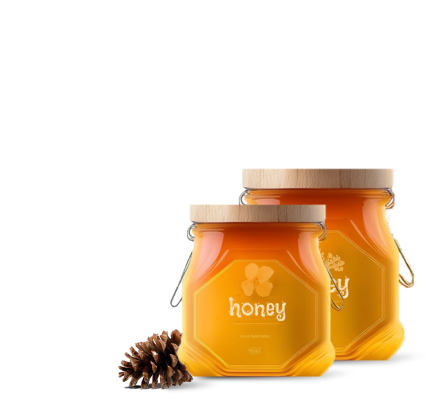
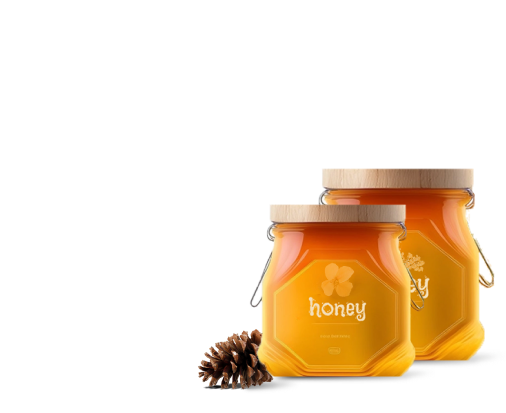
add Features section

Changed region(s): [[0.2746, 0.4068, 0.9765, 0.9588]]

diff --git a/pages/index.js b/pages/index.js
@@ -10,22 +10,22 @@ const Home = () => {
 				id="hero"
 				className="bg-auto bg-no-repeat bg-center  bg-[url('/hero-bg--phone.png')] md:bg-[url('/hero-bg--md.png')] lg:bg-[url('/hero-bg--tablet.png')] xl:bg-[url('/hero-bg.png')]  h-full"
 			>
-				<div className="container flex items-center px-8 mx-auto pt-10  space-y-0 md:space-y-0 md:flex-row  relative overflow-visible h-[54rem]">
-					<div className="flex flex-col space-y-8  w-8/12 md:w-5/12 lg:w-6/12 absolute top-24">
+				<div className="container flex items-center px-8 mx-auto pt-10  space-y-0 md:space-y-0 md:flex-row  relative overflow-visible h-[56rem]">
+					<div className="flex flex-col space-y-8 pl-2 md:pl-16  w-10/12 md:w-5/12 lg:w-6/12 absolute top-24">
 						<h1 className=" text-5xl md:text-6xl lg:text-7xl font-bold text-left text-brownSecondary">
 							Honey Pure
 						</h1>
-						<p className="max-w-sm text-left text-1xl lg:text-2xl text-graySecondary">
+						<p className="max-w-sm text-left text-xl lg:text-xl text-graySecondary">
 							Experience the Sweetness of Pure, Raw Honey
 						</p>
-						<p className="max-w-sm text-left  text-1xl lg:text-2xl  text-graySecondary md:w-7/12">
+						<p className="text-left  text-xl lg:text-xl  text-graySecondary lg:w-7/12">
 							Our honey is carefully sourced from local, sustainable bee farms
 							to ensure the highest quality and support for small businesses
 						</p>
 						<div className="flex justify-start">
 							<Link
 								href="/"
-								className=" md:hidden py-2 px-7 text-white bg-orangeTertiary rounded-full  hover:bg-orangeSecondary uppercase justify-self-start"
+								className=" md:hidden py-2 px-7 text-white bg-orangeTertiary rounded-full hover:bg-orangeSecondary uppercase justify-self-start"
 							>
 								Shop now
 							</Link>
@@ -37,6 +37,90 @@ const Home = () => {
 						height={800}
 						alt="image"
 					></Image> */}
+				</div>
+			</section>
+			<section id="features" className="px-8">
+				{/* <section
+				id="features"
+				className=" bg-[url('/features-gradient.svg')] bg-[length:400px_400px]  md:bg-[length:600px_400px] bg-no-repeat md:bg-left-bottom "
+			> */}
+				<div className="features__top container flex px-7 mx-auto -mt-20 md:mt-4 lg:mt-16 justify-center lg:justify-evenly flex-wrap ">
+					<div className="feature space-y-7 ">
+						<h3 className="text-base uppercase text-orangePrimary text-center lg:text-left">
+							HIGHEST QUALITY
+						</h3>
+						<p className="text-base text-graySecondary text-center lg:text-left max-w-sm pb-10 ">
+							Our honey is carefully sourced from local, sustainable bee farms
+							to ensure the highest quality and support for small businesses.
+						</p>
+					</div>
+					<div className="feature space-y-7 ">
+						<h3 className="text-base uppercase text-orangePrimary text-center lg:text-left">
+							100% NATURE
+						</h3>
+						<p className="text-base text-graySecondary text-center lg:text-left max-w-sm pb-10 ">
+							We never heat or filter our honey, which means it retains all of
+							its natural enzymes and antioxidants. This makes it not only
+							delicious, but also nutritious!
+						</p>
+					</div>
+					<div className="feature space-y-7 ">
+						<h3 className="text-base uppercase text-orangePrimary text-center lg:text-left">
+							IRREPLACEABLE
+						</h3>
+						<p className="text-base text-graySecondary text-center lg:text-left max-w-sm pb-10 ">
+							Honey has a wide range of uses, from sweetening tea and coffee to
+							serving as a natural sweetener in baking and cooking. It's also
+							great for skin care and home remedies.
+						</p>
+					</div>
+				</div>
+				{/* btn */}
+				<div className="container mx-auto mt-2 md:mt-12  flex justify-center">
+					<Link
+						href="/"
+						className=" btn btn-empty py-2 px-7 mt-7 text-graySecondary bg-whiteSecondary rounded-full  hover:bg-orangeSecondary hover:text-whitePrimary uppercase border  border-graySecondary"
+					>
+						View our pricing
+					</Link>
+				</div>
+
+				<div className="features__bottom -mt-20 md:mt-16">
+					<div className="container mx-auto flex flex-col md:flex-row items-center">
+						<div className="h-[550px] w-5/12 flex items-center">
+							<picture>
+								<Image
+									className="self-center jar jar--rapeseed"
+									src="/JAR-FLOWERS.png"
+									width={398}
+									height={377}
+								></Image>
+							</picture>
+						</div>
+						<div className=" md:w-7/12 flex flex-col items-center ">
+							<h3 className="text-base uppercase text-orangePrimary text-center md:text-left -mt-10 mb-16 ">
+								Features
+							</h3>
+							<ul className="space-y-7 features__list">
+								<li className=" text-base text-graySecondary  lg:text-left max-w-sm ">
+									100% pure, row honey
+								</li>
+								<li className="text-base text-graySecondary  lg:text-left max-w-sm">
+									{" "}
+									Sourced from local, sustainable bee farms
+								</li>
+								<li className="text-base text-graySecondary  lg:text-left max-w-sm">
+									Never heated of filtered
+								</li>
+								<li className="text-base text-graySecondary  lg:text-left max-w-sm">
+									Contains beneficial enzymes and antioxidants
+								</li>
+								<li className="text-base text-graySecondary  lg:text-left max-w-sm">
+									Delicious taste and versatile uses
+								</li>
+							</ul>
+						</div>
+					</div>
 				</div>
 			</section>
 		</>

diff --git a/styles/globals.css b/styles/globals.css
@@ -12,6 +12,9 @@ body {
 
 	background-color: "#E6E8EC";
 }
+* {
+	/* border: 1px solid #000; */
+}
 
 a {
 	color: inherit;
@@ -49,4 +52,50 @@ a {
 	left: 54%;
 	width: 100%;
 	height: 100%;
+}
+
+/* .btn-empty {
+	position: relative;
+	display: block;
+}
+.btn-empty::before {
+	position: absolute;
+	content: url("../public/rapeseed-btn.svg");
+
+	top: -33px;
+	left: -21px;
+	display: block;
+} */
+
+.features__list {
+	justify-content: center;
+	align-items: center;
+	list-style-image: url("../public/circle.svg");
+}
+.features__list li {
+	list-style: none;
+	display: flex;
+	align-content: center;
+}
+.features__list li::before {
+	content: "";
+	display: inline-block;
+	height: 24px;
+	width: 24px;
+	margin-right: 1rem;
+
+	background-image: url("../public/circle.svg");
+}
+
+#features picture {
+	position: relative;
+}
+#features picture::before {
+	position: absolute;
+	top: 0;
+	right: 0;
+	content: url("../public/features-gradient.svg");
+	z-index: -1;
+	height: 150%;
+	width: 150%;
 }

diff --git a/components/Navbar.jsx b/components/Navbar.jsx
@@ -11,7 +11,7 @@ const Navbar = () => {
 					<Image src="/logo.svg" width={100} height={20} alt="image" />
 				</Link>
 				{/* Menu Items */}
-				<div className=" hidden md:flex space-x-14 lg:space-x-20 uppercase ">
+				<div className="text-sm hidden md:flex space-x-14 lg:space-x-20 uppercase ">
 					<Link
 						href="#"
 						className=" text-orangeSecondary  hover:text-blackSecondary"
@@ -39,12 +39,12 @@ const Navbar = () => {
 				</div>
 				<Link
 					href="/"
-					className="hidden md:block py-2 px-7 text-white bg-orangeTertiary rounded-full  hover:bg-orangeSecondary uppercase "
+					className="hidden md:block py-2 px-7 text-white bg-graySecondary rounded-full  hover:bg-orangeSecondary uppercase "
 				>
 					Shop now
 				</Link>
 			</div>
-			<hr className="border-t-grayPrimary" />
+			{/* <hr className="border-t-grayPrimary" /> */}
 		</nav>
 	);
 };
